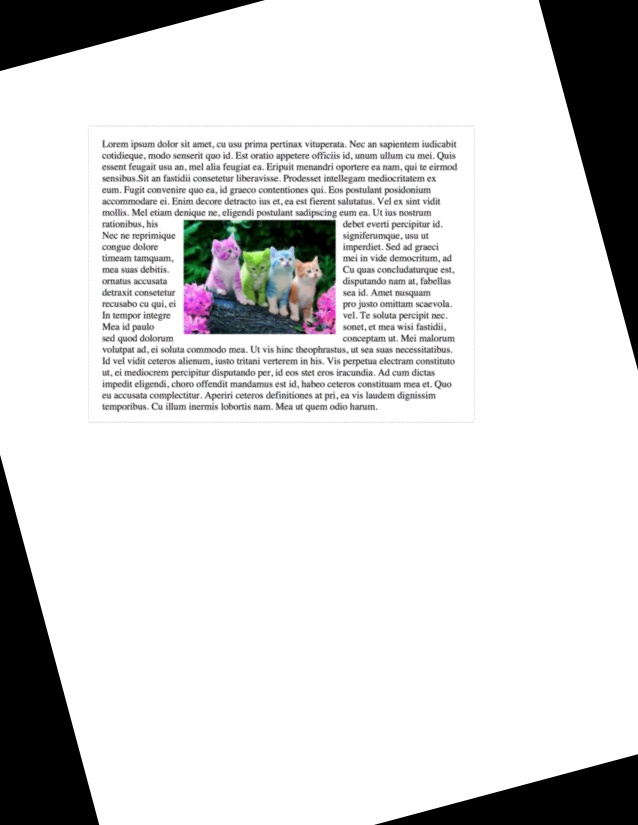
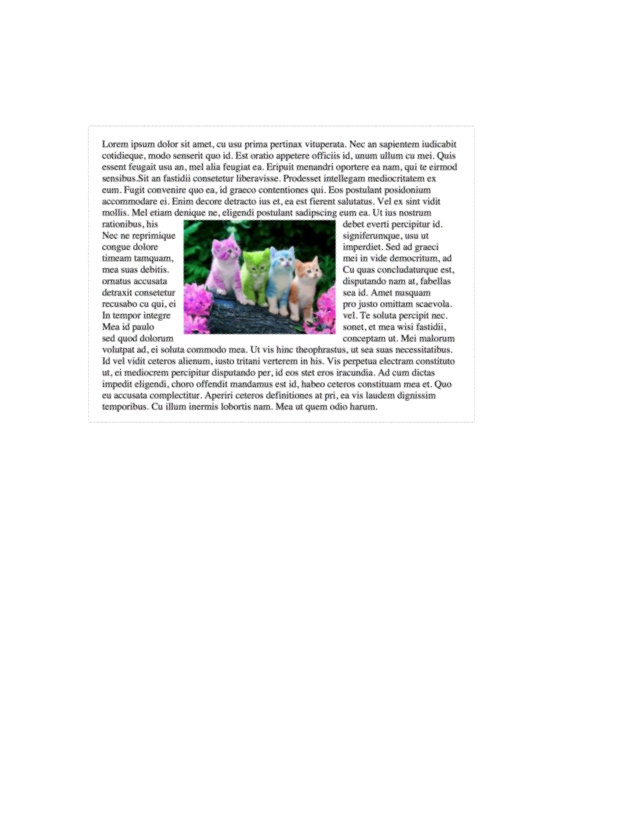
make rotated image borders transparent

diff --git a/pdfproject/skew.py b/pdfproject/skew.py
@@ -6,7 +6,7 @@ def rotate(img, angle):
 	height = img.shape[0]
 	width = img.shape[1]
 	rotmat = cv2.getRotationMatrix2D((width/2, height/2), angle, 1)
-	return cv2.warpAffine(img, rotmat, (width, height))
+	return cv2.warpAffine(img, rotmat, (width, height), borderMode=cv2.BORDER_TRANSPARENT)
 
 # get the sum of the values of a row
 def horizontal_sums(img):
